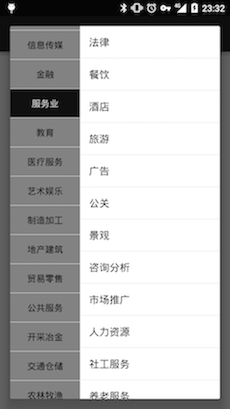
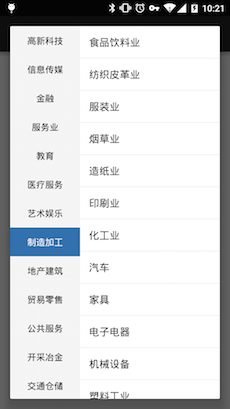
provide getLeftView and getRightView to custom their style or others

diff --git a/library/src/main/java/com/twiceyuan/library/MultiColumnPicker.java b/library/src/main/java/com/twiceyuan/library/MultiColumnPicker.java
@@ -226,8 +226,17 @@ public class MultiColumnPicker<Left, Right> implements LeftStringMapper<Left>, R
      * @param width  宽度
      * @param height 高度
      */
-    public MultiColumnPicker setSize(int width, int height) {
-        mSize = new DialogHelper.Size(width, height);
+    public MultiColumnPicker setSize(float width, float height) {
+        // dp -> px
+        int widthPx = DensityUtil.dip2px(mContext, width);
+        int heightPx = DensityUtil.dip2px(mContext, height);
+
+        // compare screen size and set screen size if the value too large
+        int screenWidth = DensityUtil.screenWidth(mContext);
+        int screenHeight = DensityUtil.screenHeight(mContext);
+        widthPx = widthPx > screenWidth ? screenWidth : widthPx;
+        heightPx = heightPx > screenHeight ? screenHeight : heightPx;
+        mSize = new DialogHelper.Size(widthPx, heightPx);
         return this;
     }
 
@@ -255,5 +264,13 @@ public class MultiColumnPicker<Left, Right> implements LeftStringMapper<Left>, R
      */
     public void setRightAdapter(OnRightAdapterSet<Right> onRightAdapterSet) {
         mOnRightAdapterSet = onRightAdapterSet;
+    }
+
+    public ListView getLeftView() {
+        return mLvLeft;
+    }
+
+    public ListView getRightView() {
+        return mLvRight;
     }
 }

diff --git a/library/src/main/java/com/twiceyuan/library/DensityUtil.java b/library/src/main/java/com/twiceyuan/library/DensityUtil.java
@@ -1,0 +1,50 @@
+package com.twiceyuan.library;
+
+import android.content.Context;
+
+public class DensityUtil {
+
+    /**
+     * dp to px
+     *
+     * @param context context
+     * @param dp dip
+     * @return px
+     */
+    public static int dip2px(Context context, float dp) {
+        final float scale = context.getResources().getDisplayMetrics().density;  
+        return (int) (dp * scale + 0.5f);
+    }
+
+    /**
+     * px to dp
+     *
+     * @param context context
+     * @param px pixel
+     * @return dip
+     */
+    public static int px2dip(Context context, float px) {
+        final float scale = context.getResources().getDisplayMetrics().density;  
+        return (int) (px / scale + 0.5f);
+    }
+
+    /**
+     * Get width of screen
+     *
+     * @param context context
+     * @return width of screen
+     */
+    public static int screenWidth(Context context) {
+        return context.getResources().getDisplayMetrics().widthPixels;
+    }
+
+    /**
+     * Get height of screen
+     *
+     * @param context context
+     * @return height of screen
+     */
+    public static int screenHeight(Context context) {
+        return context.getResources().getDisplayMetrics().heightPixels;
+    }
+}  

diff --git a/app/src/main/java/com/twiceyuan/multicolumnpicker/picker/BusinessPicker.java b/app/src/main/java/com/twiceyuan/multicolumnpicker/picker/BusinessPicker.java
@@ -32,6 +32,7 @@ public class BusinessPicker {
         picker.setMapRightId(business -> business.id);
         picker.setLeftAdapter((mapper, businesses) ->
                 new CustomLeftAdapter<>(businesses, mapper)); // 配置自定义适配器
+        picker.getLeftView().setDividerHeight(0);
         picker.setLeftDefault(0);
         picker.show();
     }

diff --git a/app/src/main/java/com/twiceyuan/multicolumnpicker/picker/DatePicker.java b/app/src/main/java/com/twiceyuan/multicolumnpicker/picker/DatePicker.java
@@ -28,7 +28,7 @@ public class DatePicker {
         picker.setMapRightString(s -> s + "月");
         picker.setLeftDefault((Object) 2015);
         picker.setWeight(1, 1);
-        picker.setSize(1000, 1000);
+        picker.setSize(400, 400);
         picker.show();
     }
 
